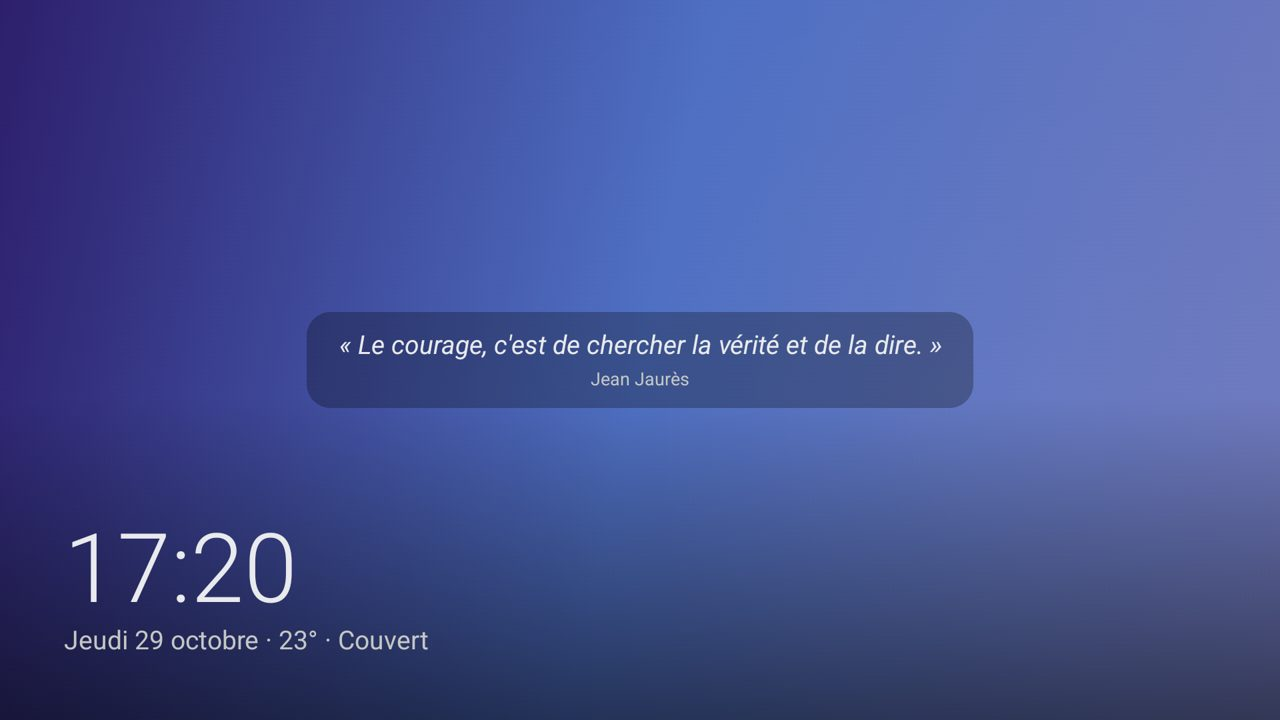
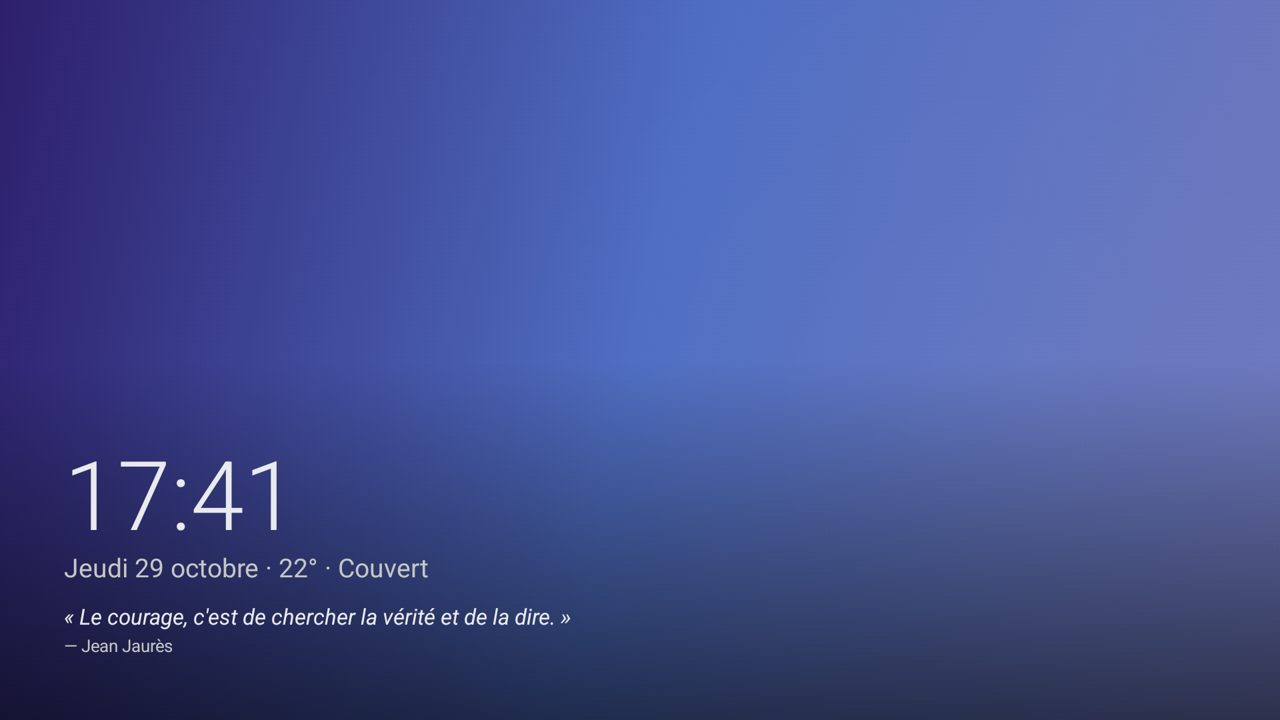
Écran de veille : citation du jour sous l'heure

Changed region(s): [[0.2188, 0.4278, 0.7812, 0.5806], [0.0312, 0.6417, 0.4375, 0.9167]]

diff --git a/app/src/main/java/com/vantaflow/kairo/dream/DreamScreen.kt b/app/src/main/java/com/vantaflow/kairo/dream/DreamScreen.kt
@@ -16,6 +16,7 @@ import androidx.compose.foundation.layout.Box
 import androidx.compose.foundation.layout.Column
 import androidx.compose.foundation.layout.fillMaxSize
 import androidx.compose.foundation.layout.padding
+import androidx.compose.foundation.layout.widthIn
 import androidx.compose.runtime.Composable
 import androidx.compose.runtime.LaunchedEffect
 import androidx.compose.runtime.getValue
@@ -104,15 +105,18 @@ fun DreamScreen(override: DreamConfig? = null) {
             "gradient" -> AnimatedGradient(paletteById(c.palette), c.intervalSec)
             else -> Slideshow(c)
         }
-        if (c.showClock) {
-            // Voile en bas : l'heure reste lisible sur une photo claire.
-            Box(Modifier.fillMaxSize().background(Brush.verticalGradient(0.55f to Color.Transparent, 1f to Color.Black.copy(alpha = 0.55f))))
+        if (c.showClock || c.showQuote) {
+            // Voile en bas : l'heure et la citation restent lisibles sur une photo claire.
+            Box(Modifier.fillMaxSize().background(Brush.verticalGradient(0.5f to Color.Transparent, 1f to Color.Black.copy(alpha = 0.6f))))
             Column(Modifier.align(Alignment.BottomStart).padding(64.dp)) {
-                Text(time, fontSize = 96.sp, fontWeight = FontWeight.Light, color = OnBackground)
-                Text(listOfNotNull(date, weather).joinToString(" · "), fontSize = 26.sp, color = OnBackgroundMuted)
+                if (c.showClock) {
+                    Text(time, fontSize = 96.sp, fontWeight = FontWeight.Light, color = OnBackground)
+                    Text(listOfNotNull(date, weather).joinToString(" · "), fontSize = 26.sp, color = OnBackgroundMuted)
+                }
+                // Citation du jour sous l'heure ; largeur limitée pour laisser la place à la carte radio.
+                if (c.showQuote) DreamQuote(Modifier.padding(top = if (c.showClock) 20.dp else 0.dp).widthIn(max = 760.dp))
             }
         }
-        if (c.showQuote) DreamQuote(Modifier.align(Alignment.Center).padding(horizontal = 200.dp))
         // Au-dessus du voile de l'heure : la carte radio reste nette.
         DreamRadio(Modifier.align(Alignment.BottomEnd).padding(48.dp))
     }
@@ -215,21 +219,15 @@ private fun DreamRadio(modifier: Modifier) {
     }
 }
 
-/** Citation du jour, au centre de l'écran, sur un léger voile pour rester lisible sur une photo claire. */
+/** Citation du jour, sous l'heure, alignée à gauche. */
 @Composable
 private fun DreamQuote(modifier: Modifier) {
     val quote = remember { quoteOfDay(java.time.LocalDate.now()) }
-    Column(
-        modifier
-            .background(Color.Black.copy(alpha = 0.28f), androidx.compose.foundation.shape.RoundedCornerShape(24.dp))
-            .padding(horizontal = 32.dp, vertical = 18.dp),
-        horizontalAlignment = Alignment.CenterHorizontally,
-    ) {
+    Column(modifier) {
         Text(
             "« ${quote.text} »",
-            fontSize = 26.sp, color = OnBackground, fontStyle = androidx.compose.ui.text.font.FontStyle.Italic,
-            textAlign = androidx.compose.ui.text.style.TextAlign.Center, lineHeight = 36.sp,
+            fontSize = 22.sp, color = OnBackground, fontStyle = androidx.compose.ui.text.font.FontStyle.Italic, lineHeight = 30.sp,
         )
-        Text(quote.author, fontSize = 18.sp, color = OnBackgroundMuted, modifier = Modifier.padding(top = 8.dp))
+        Text("— ${quote.author}", fontSize = 17.sp, color = OnBackgroundMuted, modifier = Modifier.padding(top = 6.dp))
     }
 }

diff --git a/app/src/main/java/com/vantaflow/kairo/settings/DreamSettings.kt b/app/src/main/java/com/vantaflow/kairo/settings/DreamSettings.kt
@@ -160,7 +160,7 @@ fun DreamSettings() {
             }
         }
         item { SwitchRow("Afficher l'heure, la date et la météo", config.showClock, { save(config.copy(showClock = it)) }) }
-        item { SwitchRow("Citation du jour", config.showQuote, { save(config.copy(showQuote = it)) }, "Une phrase au centre de l'écran, différente chaque jour.") }
+        item { SwitchRow("Citation du jour", config.showQuote, { save(config.copy(showQuote = it)) }, "Une phrase sous l'heure, différente chaque jour.") }
         item {
             Text(
                 "L'écran de veille démarre après l'inactivité réglée dans les paramètres Android (Écran de veille).",

diff --git a/README.md b/README.md
@@ -84,7 +84,7 @@ Les box Android TV d'entrée de gamme (2 Go de RAM, processeur 32 bits) rament s
 - **Favoris à déplacer directement sur l'accueil**, comme sur Google TV : appui long › Déplacer, puis ← →.
 - Toutes les applis, applis masquées, accès au Play Store.
 - Recherche dans les applis et les contenus, avec dictée vocale.
-- **Écran de veille paramétrable** (Réglages › Écran de veille) : photos du web par thème, **vos photos** (box et clés USB) ou **dégradés de couleurs animés** (6 palettes) ; durée, transition (fondu, fondu lent, zoom lent), heure et météo ; bouton **Aperçu**. **Citation du jour** au centre de l'écran (418 citations et proverbes, aucune répétition dans l'année). Si la radio joue, une carte radio s'affiche : ← → changent de radio, OK l'arrête, les autres touches réveillent la box.
+- **Écran de veille paramétrable** (Réglages › Écran de veille) : photos du web par thème, **vos photos** (box et clés USB) ou **dégradés de couleurs animés** (6 palettes) ; durée, transition (fondu, fondu lent, zoom lent), heure et météo ; bouton **Aperçu**. **Citation du jour** sous l'heure (418 citations et proverbes, aucune répétition dans l'année). Si la radio joue, une carte radio s'affiche : ← → changent de radio, OK l'arrête, les autres touches réveillent la box.
 
 | Toutes les applications | Recherche |
 | --- | --- |
